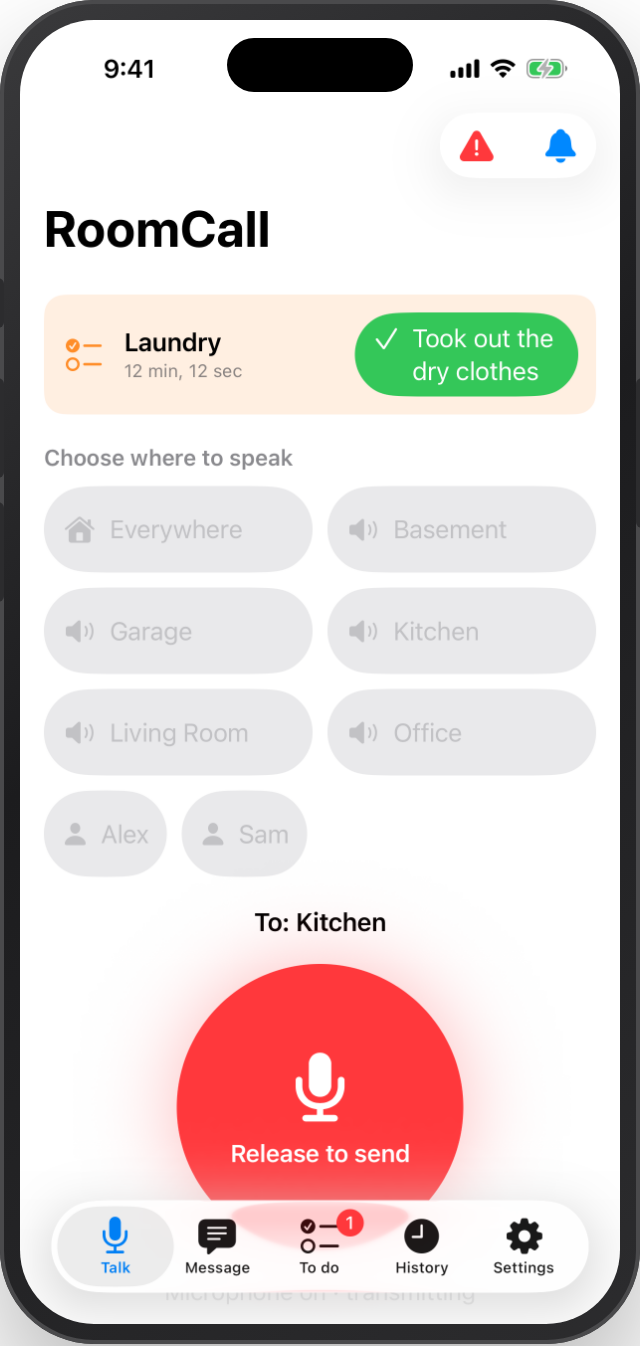
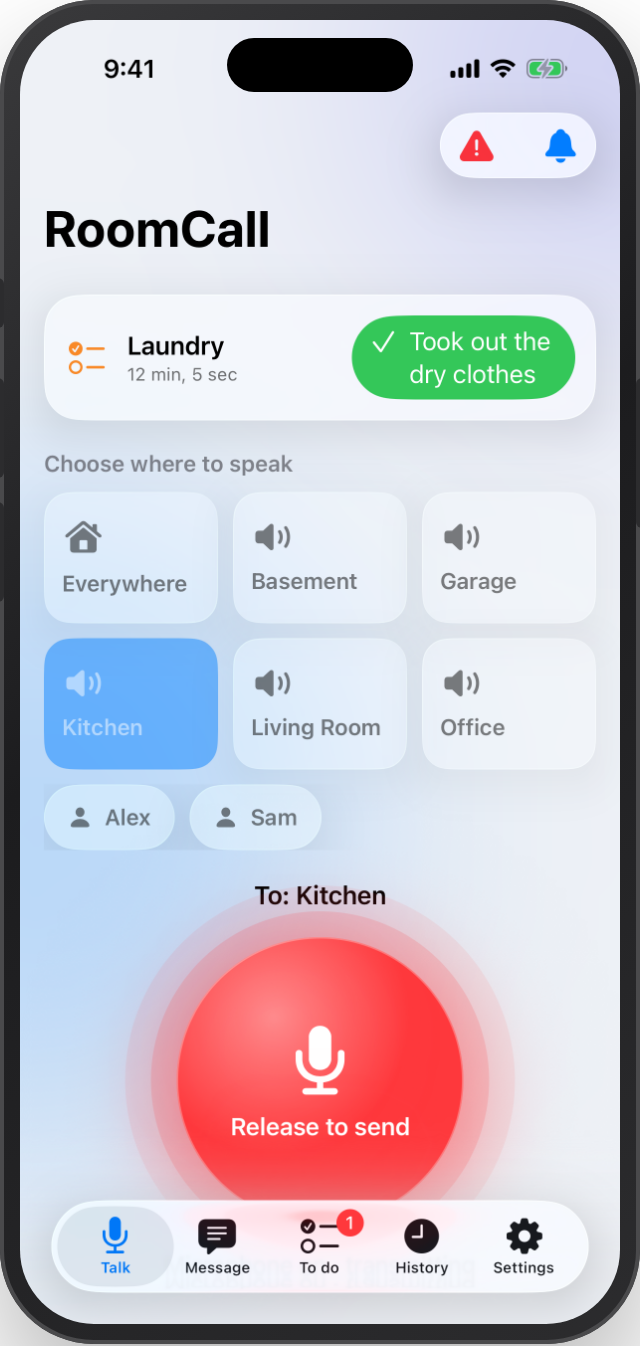
feat: speaking speed setting; refresh docs screenshots
New speech_rate option (0.5–1.5, default 1) in the options flow, the
guided-setup API and the card's Settings → Setup. Synthesized speech
(typed messages, announcements, reminders, previews) is re-timed with
ffmpeg atempo before playback, so it works with every TTS engine and keeps
the voice's pitch; the chime is not stretched. A rate other than 1 always
prepares the audio, even without a chime, and is part of the speech cache
key. Labels in all five languages. Real-ffmpeg tests cover the stretched
voice, cache separation, chimeless preparation and the options flow.

Docs screenshots: iOS captures framed from iOS run 40035013972 (this
branch's native source), card captures regenerated; manifest re-recorded.

diff --git a/custom_components/roomcall/frontend/roomcall-controls.js b/custom_components/roomcall/frontend/roomcall-controls.js
@@ -489,6 +489,9 @@ class SetupWizard {
       step: "0.05",
     });
     this.volume.setAttribute("aria-label", this.t("setup_volume"));
+    this.rate = document.createElement("input");
+    Object.assign(this.rate, { type: "number", min: "0.5", max: "1.5", step: "0.05", placeholder: "1" });
+    this.rate.setAttribute("aria-label", this.t("setup_speech_rate"));
     this.mediaOnly = document.createElement("input");
     this.mediaOnly.type = "checkbox";
     const mediaLabel = document.createElement("label");
@@ -502,9 +505,13 @@ class SetupWizard {
     const volumeLabel = document.createElement("label");
     volumeLabel.textContent = this.t("setup_volume");
     volumeLabel.append(this.volume);
+    const rateLabel = document.createElement("label");
+    rateLabel.textContent = this.t("setup_speech_rate");
+    rateLabel.append(this.rate);
     this.form.append(
       this.speakers,
       engineLabel,
+      rateLabel,
       volumeLabel,
       mediaLabel,
       this.button("create_plan", () => this.plan()),
@@ -578,6 +585,7 @@ class SetupWizard {
     this.engine.value =
       discovery.settings.tts_engine || discovery.recommended.tts_engine || "";
     this.volume.value = discovery.settings.volume ?? "";
+    this.rate.value = discovery.settings.speech_rate ?? "";
     this.status.textContent = this.t("setup_scan_count", {
       count: discovery.endpoints.length,
     });
@@ -607,6 +615,7 @@ class SetupWizard {
       tts_engine: this.engine.value || null,
     };
     if (this.volume.value !== "") settings.volume = Number(this.volume.value);
+    if (this.rate.value !== "") settings.speech_rate = Number(this.rate.value);
     const result = await this.request("plan", {
       settings,
       media_only: this.mediaOnly.checked,
@@ -625,6 +634,7 @@ class SetupWizard {
       input.checked = plan.settings.speakers.includes(input.value);
     this.engine.value = plan.settings.tts_engine || "";
     this.volume.value = plan.settings.volume ?? "";
+    this.rate.value = plan.settings.speech_rate ?? "";
     this.mediaOnly.checked = plan.media_only;
     const title = document.createElement("strong");
     title.textContent = this.t("setup_review");
@@ -637,6 +647,7 @@ class SetupWizard {
       this.t("plan_state", { state: this.t(`setup_${plan.state}`) }),
       `${this.t("setup_speakers")}: ${names.join(", ")}`,
       `${this.t("setup_tts")}: ${this.discovery.tts_engines.find((e) => e.entity_id === plan.settings.tts_engine)?.name || this.t("media_only")}`,
+      `${this.t("setup_speech_rate")}: ${plan.settings.speech_rate ?? 1}×`,
       `${this.t("setup_volume")}: ${plan.settings.volume ?? this.t("setup_keep_volume")}`,
       ...plan.questions.map((q) => q.message),
     ]) {

diff --git a/scripts/qa_communication.py b/scripts/qa_communication.py
@@ -24,9 +24,18 @@ def check_guided_setup(browser, errors) -> None:
         speakers = wizard.locator('fieldset input[type="checkbox"]')
         for index in range(1, speakers.count()):
             speakers.nth(index).uncheck()
-        wizard.get_by_role("spinbutton").fill("0.3")
+        wizard.get_by_role("spinbutton", name="Announcement volume").fill("0.3")
+        wizard.get_by_role("spinbutton", name="Speaking speed").fill("0.85")
         wizard.get_by_role("button", name="Review setup plan", exact=True).click()
         expect(wizard.locator(".setup-review")).to_contain_text("0.3")
+        expect(wizard.locator(".setup-review")).to_contain_text("Speaking speed: 0.85\u00d7")
+        assert (
+            page.evaluate(
+                "ROOMCALL_HARNESS.requests.findLast(r=>r.request?.action==='plan')"
+                ".request.settings.speech_rate"
+            )
+            == 0.85
+        )
         assert (
             page.evaluate("ROOMCALL_HARNESS.requests.filter(r=>r.request?.action==='apply').length")
             == 0
@@ -41,7 +50,9 @@ def check_guided_setup(browser, errors) -> None:
         card.get_by_role("button", name="Settings", exact=True).click()
         wizard = card.locator(".setup-wizard")
         expect(wizard.locator(".setup-review")).to_contain_text("Applied")
-        expect(wizard.locator('input[type="number"]')).to_have_value("0.3")
+        # The applied plan hides the form, so find its fields by label rather than by role.
+        expect(wizard.locator('input[aria-label^="Announcement volume"]')).to_have_value("0.3")
+        expect(wizard.locator('input[aria-label="Speaking speed"]')).to_have_value("0.85")
         wizard.get_by_role("button", name="Play test sound", exact=True).click()
         wizard.get_by_role("button", name="I heard it", exact=True).click()
         expect(wizard.locator(".wizard-status")).to_contain_text("Setup verified")

diff --git a/tests_ha/test_tts_chime.py b/tests_ha/test_tts_chime.py
@@ -105,3 +105,41 @@ async def test_preparation_failures_are_explicit_and_play_nothing(
     if failure in {"url", "forbidden"}:
         tts_audio.assert_not_called()
     assert not data.history.records()
+
+
+async def test_speaking_speed_slows_synthesized_speech_but_not_the_chime(
+    hass, setup_roomcall, house, tts_audio
+):
+    """A slower speaking speed stretches the 1-second voice by real ffmpeg, keeping the chime."""
+    async_mock_service(hass, "media_player", "play_media")
+    hass.states.async_set("tts.piper", "unknown")
+    data = hass.data["roomcall"]
+    seconds = {}
+    for rate in (1.0, 0.75):
+        data.speech_rate = rate
+        response = await hass.services.async_call(
+            "roomcall",
+            "broadcast",
+            {"areas": house["kitchen"], "message": "Dinner"},
+            blocking=True,
+            return_response=True,
+        )
+        assert response["ok"]
+        record = data.history.records()[0]
+        audio = data.history.audio(record.call_id)
+        seconds[rate] = len(await to_speech_pcm("ffmpeg", audio.data)) / 32000
+    # Same message, different speed: synthesized and composed again, not served from cache.
+    assert tts_audio.await_count == 2
+    assert 0.25 < seconds[0.75] - seconds[1.0] < 0.45
+
+
+async def test_speaking_speed_prepares_speech_even_without_a_chime(hass, setup_roomcall, tts_audio):
+    hass.states.async_set("tts.piper", "unknown")
+    data = hass.data["roomcall"]
+    data.chime_style = None
+    plain = await request_for(hass, data, {"message": "Hello"}, Context())
+    assert plain.media_id.startswith("media-source://tts/tts.piper")
+    data.speech_rate = 0.85
+    slowed = await request_for(hass, data, {"message": "Hello"}, Context())
+    assert "/api/roomcall/clip/" in slowed.media_id
+    assert tts_audio.await_count == 1

diff --git a/custom_components/roomcall/core.py b/custom_components/roomcall/core.py
@@ -284,16 +284,20 @@ async def to_playable(
     chime: str | None = None,
     chime_url: str | None = None,
     processing: str = "off",
+    tempo: float = 1.0,
 ) -> tuple[bytes, str]:
     """Return ``(audio, content_type)`` playable by every speaker (MP3/WAV).
 
     ``chime`` is a built-in style from :mod:`chimes`; ``chime_url`` (a file or URL ffmpeg can
-    read) takes precedence over it. Either is prepended to the recording.
+    read) takes precedence over it. Either is prepended to the recording. ``tempo`` speeds up
+    or slows down the voice (not the chime) without changing its pitch.
     """
     base = content_type.split(";", 1)[0].strip().lower()
     filters = f"volume={gain_db}dB"
     if processing == "speech":
         filters += ",highpass=f=100,afftdn=nf=-25,dynaudnorm=f=150:g=15,alimiter=limit=0.9"
+    if tempo != 1:
+        filters += f",atempo={tempo:g}"
     if chime_url:
         inputs = ["-i", chime_url]
         graph = chimes.chime_filter(1, 1, from_file=True)
@@ -302,7 +306,7 @@ async def to_playable(
         graph = chimes.chime_filter(1, len(chimes.STYLES[chime]))
     else:
         inputs, graph = [], ""
-    if base in PLAYABLE and not gain_db and not graph and processing == "off":
+    if base in PLAYABLE and not gain_db and not graph and processing == "off" and tempo == 1:
         return data, "audio/mpeg" if PLAYABLE[base] == "mp3" else "audio/wav"
     if graph:
         voice = f"[0:a]aresample=44100,aformat=channel_layouts=mono,{filters}[voice]"

diff --git a/custom_components/roomcall/__init__.py b/custom_components/roomcall/__init__.py
@@ -56,6 +56,7 @@ from .const import (
     CONF_RESTORE,
     CONF_RETRY,
     CONF_SPEAKERS,
+    CONF_SPEECH_RATE,
     CONF_STAGGER_MS,
     CONF_STT_ENGINE,
     CONF_TTS_ENGINE,
@@ -67,6 +68,7 @@ from .const import (
     DEFAULT_HOMEKIT_PORT,
     DEFAULT_RESTORE,
     DEFAULT_RETRY,
+    DEFAULT_SPEECH_RATE,
     DEFAULT_STAGGER_MS,
     DEFAULT_URGENT_VOLUME,
     DOMAIN,
@@ -135,6 +137,7 @@ class RoomCallData:
     volume: float | None
     gain_db: float
     tts_engine: str | None
+    speech_rate: float = DEFAULT_SPEECH_RATE
     chime_style: str | None = DEFAULT_CHIME_STYLE  # None = no chime
     chime_url: str | None = None
     stagger_ms: int = DEFAULT_STAGGER_MS
@@ -213,6 +216,7 @@ def settings_from_options(opts: dict[str, Any]) -> RoomCallData:
         volume=_float(opts.get(CONF_VOLUME)),
         gain_db=float(opts.get(CONF_GAIN_DB, DEFAULT_GAIN_DB)),
         tts_engine=opts.get(CONF_TTS_ENGINE) or None,
+        speech_rate=float(opts.get(CONF_SPEECH_RATE, DEFAULT_SPEECH_RATE)),
         agent_policies=AgentPolicies(communication.get("agent_policies") or {}),
         household_profiles=validate_profiles(communication.get("household_profiles") or {}),
         speech_profiles=dict(communication.get("speech_profiles") or {}),

diff --git a/custom_components/roomcall/messages.py b/custom_components/roomcall/messages.py
@@ -102,7 +102,8 @@ async def request_for(
         if language:
             media_id += f"&language={quote(language)}"
         kind = "message"
-        if data.chime_style or data.chime_url or preset or values.get("_prepare"):
+        rate = data.speech_rate
+        if data.chime_style or data.chime_url or preset or rate != 1 or values.get("_prepare"):
             from .communication import validate_targets
             from .http import base_url
 
@@ -138,6 +139,7 @@ async def request_for(
                         0,
                         data.chime_style,
                         data.chime_url,
+                        tempo=rate,
                     )
                     if not result[0]:
                         raise ValueError("empty TTS audio")
@@ -150,6 +152,7 @@ async def request_for(
                             media_id,
                             data.chime_style,
                             data.chime_url,
+                            rate,
                         ]
                     ).encode()
                 ).hexdigest()

diff --git a/custom_components/roomcall/config_flow.py b/custom_components/roomcall/config_flow.py
@@ -46,6 +46,7 @@ from .const import (
     CONF_RETRY,
     CONF_ROOMS,
     CONF_SPEAKERS,
+    CONF_SPEECH_RATE,
     CONF_STAGGER_MS,
     CONF_STT_ENGINE,
     CONF_TARGET_SPEAKERS,
@@ -63,6 +64,7 @@ from .const import (
     DEFAULT_REMIND_EVERY,
     DEFAULT_RESTORE,
     DEFAULT_RETRY,
+    DEFAULT_SPEECH_RATE,
     DEFAULT_STAGGER_MS,
     DEFAULT_URGENT_VOLUME,
     DOMAIN,
@@ -126,6 +128,14 @@ def _main_fields(hass: HomeAssistant, defaults: dict[str, Any]) -> dict[Any, Any
         vol.Optional(
             CONF_TTS_ENGINE, description=_suggest(defaults.get(CONF_TTS_ENGINE))
         ): selector.EntitySelector(selector.EntitySelectorConfig(domain="tts")),
+        vol.Optional(
+            CONF_SPEECH_RATE,
+            description={"suggested_value": defaults.get(CONF_SPEECH_RATE, DEFAULT_SPEECH_RATE)},
+        ): selector.NumberSelector(
+            selector.NumberSelectorConfig(
+                min=0.5, max=1.5, step=0.05, mode=selector.NumberSelectorMode.SLIDER
+            )
+        ),
     }
 
 

diff --git a/tests_ha/test_features.py b/tests_ha/test_features.py
@@ -367,6 +367,7 @@ async def test_options_flow_sections(hass: HomeAssistant, house):
         {
             "speakers": SPEAKERS,
             "gain_db": 0,
+            "speech_rate": 0.85,
             "chime_options": {"style": "rising"},
             "delivery": {"stagger_ms": 300, "retry": True, "urgent_volume": 0.9},
             "quiet_hours": {"start": "22:00:00", "end": "07:00:00"},
@@ -377,6 +378,7 @@ async def test_options_flow_sections(hass: HomeAssistant, house):
     await hass.async_block_till_done()
     data = hass.data[DOMAIN]
     assert data.chime_style == "rising"
+    assert data.speech_rate == 0.85
     assert data.stagger_ms == 300
     assert data.urgent_volume == 0.9
     assert data.quiet.start == time(22)

diff --git a/tests_ha/test_transport_boundaries.py b/tests_ha/test_transport_boundaries.py
@@ -159,3 +159,13 @@ async def test_cancelled_transcode_reaps_child():
         await core.to_playable("ffmpeg", b"speech", "audio/webm", 0)
     proc.kill.assert_called_once()
     assert proc.communicate.await_count == 2
+
+
+async def test_tempo_changes_voice_length():
+    ffmpeg = shutil.which("ffmpeg")
+    normal, _ = await core.to_playable(ffmpeg, wav_audio(), "audio/wav", 0, tempo=1.0)
+    slower, content_type = await core.to_playable(ffmpeg, wav_audio(), "audio/wav", 0, tempo=0.5)
+    # 1.0 with no other processing passes the WAV through untouched.
+    assert normal == wav_audio()
+    assert content_type == "audio/mpeg"
+    assert 1.7 < core.mp3_seconds(slower) < 2.4

diff --git a/custom_components/roomcall/const.py b/custom_components/roomcall/const.py
@@ -9,6 +9,7 @@ CONF_SPEAKERS = "speakers"
 CONF_VOLUME = "volume"
 CONF_TTS_ENGINE = "tts_engine"
 CONF_GAIN_DB = "gain_db"
+CONF_SPEECH_RATE = "speech_rate"
 CONF_CHIME = "chime"
 
 # Options grouped into sections in the options flow.
@@ -39,6 +40,8 @@ CONF_REPLY_PATH = "dashboard_path"
 CONF_STT_ENGINE = "stt_engine"
 
 DEFAULT_GAIN_DB = 0.0
+# Speaking speed for synthesized speech (1.0 = the engine's own pace).
+DEFAULT_SPEECH_RATE = 1.0
 DEFAULT_CHIME = True
 DEFAULT_CHIME_STYLE = "chirp"
 DEFAULT_STAGGER_MS = 250

diff --git a/custom_components/roomcall/onboarding.py b/custom_components/roomcall/onboarding.py
@@ -30,6 +30,7 @@ SETTINGS = {
     "volume",
     "gain_db",
     "tts_engine",
+    "speech_rate",
     "chime_options",
     "delivery",
     "quiet_hours",

diff --git a/docs/home-assistant.md b/docs/home-assistant.md
@@ -55,6 +55,7 @@ Pick your speakers. Everything else is under **Configure** on the integration:
 | Announcement volume | speaker's current volume | Fixed volume for calls (Sonos) |
 | Microphone boost | 0 dB | Raise if phone recordings sound quiet |
 | Text-to-speech engine | your default | Used by `roomcall.broadcast` messages |
+| Speaking speed | 1 | 0.5–1.5. Lower it (try 0.85) if typed messages and announcements sound rushed; pitch is unchanged. Also in the card's **Settings → Setup** |
 | **Chime** → chime | Walkie-talkie chirp | Chirp, ding, double beep, rising tones, doorbell, or none |
 | **Chime** → custom file or URL | — | Your own sound, e.g. `/config/www/chime.mp3`; overrides the chime |
 | **Delivery** → delay between speakers | 250 ms | Stops several Sonos in one home from dropping the same announcement |
